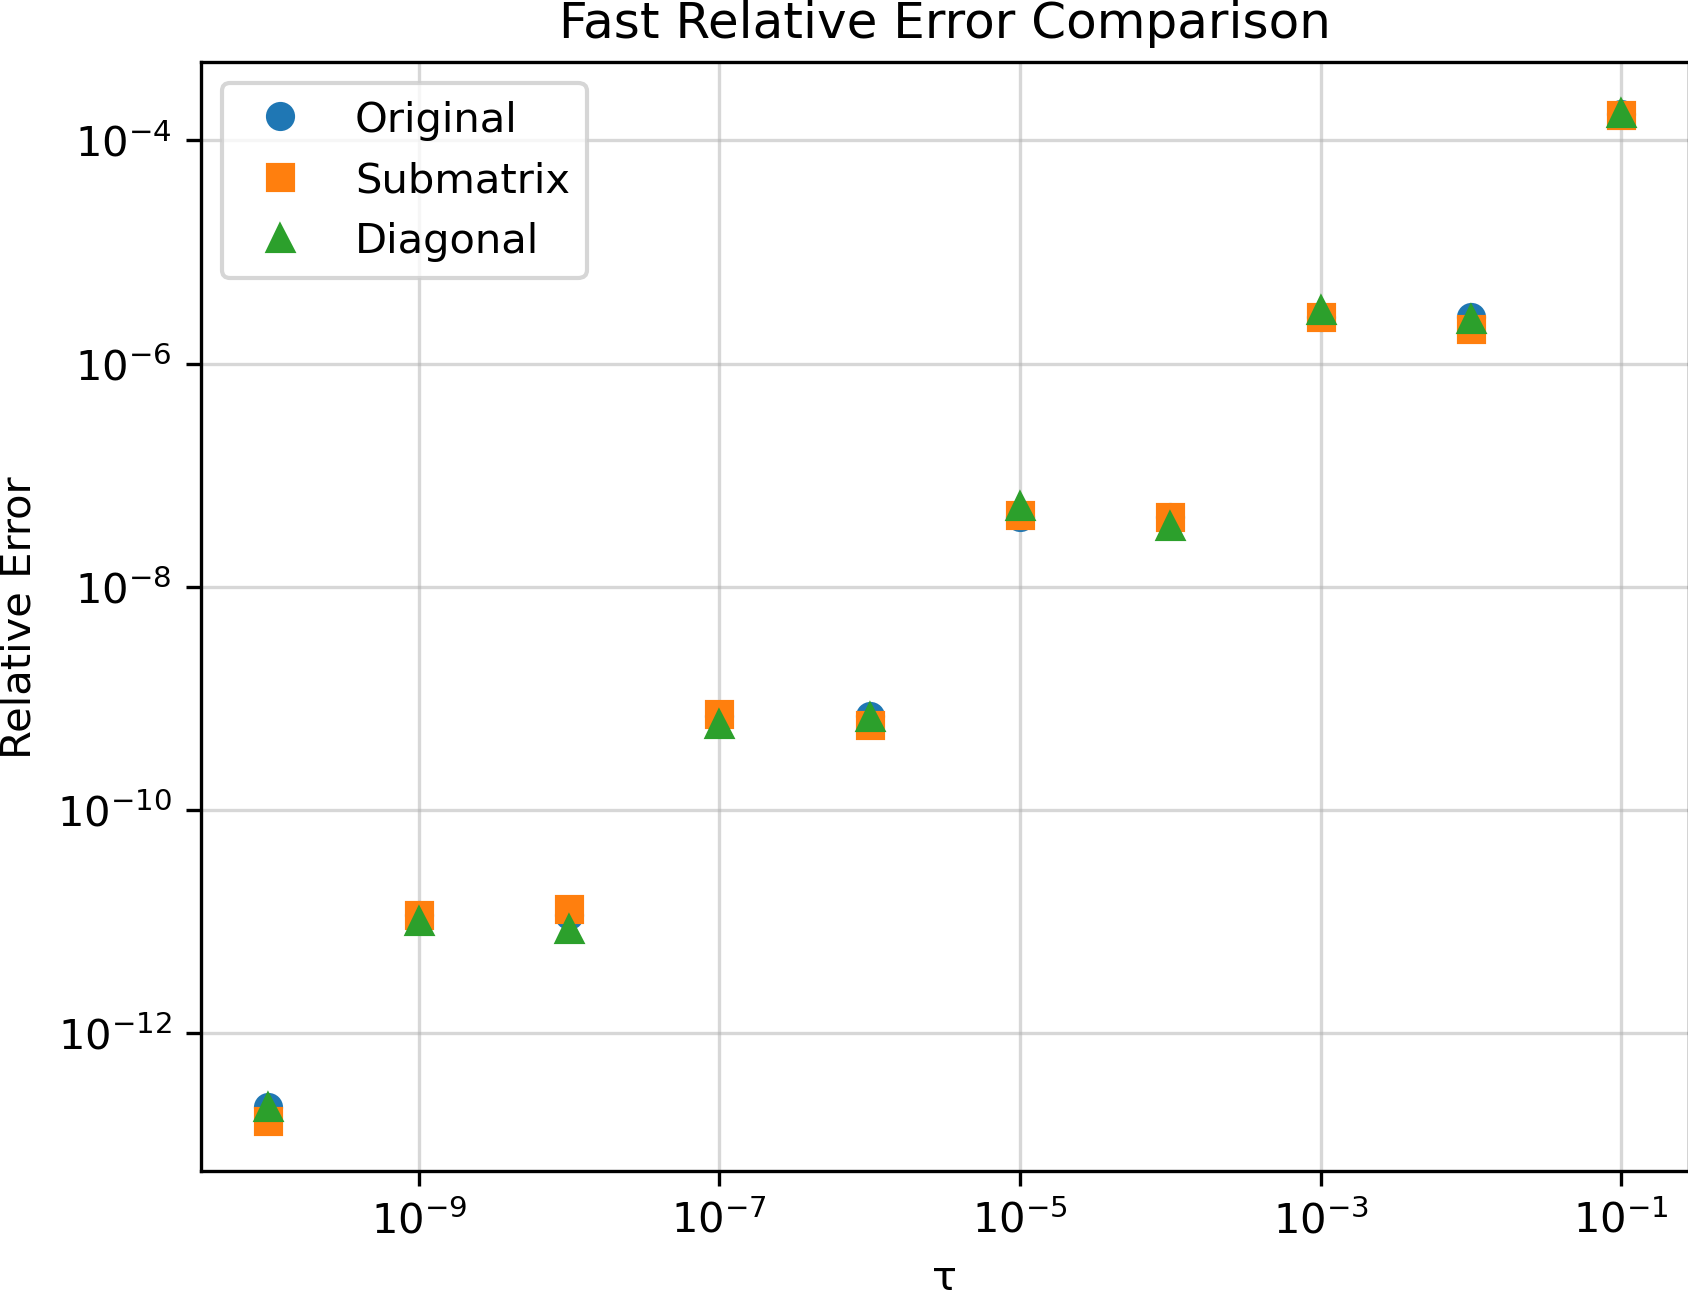
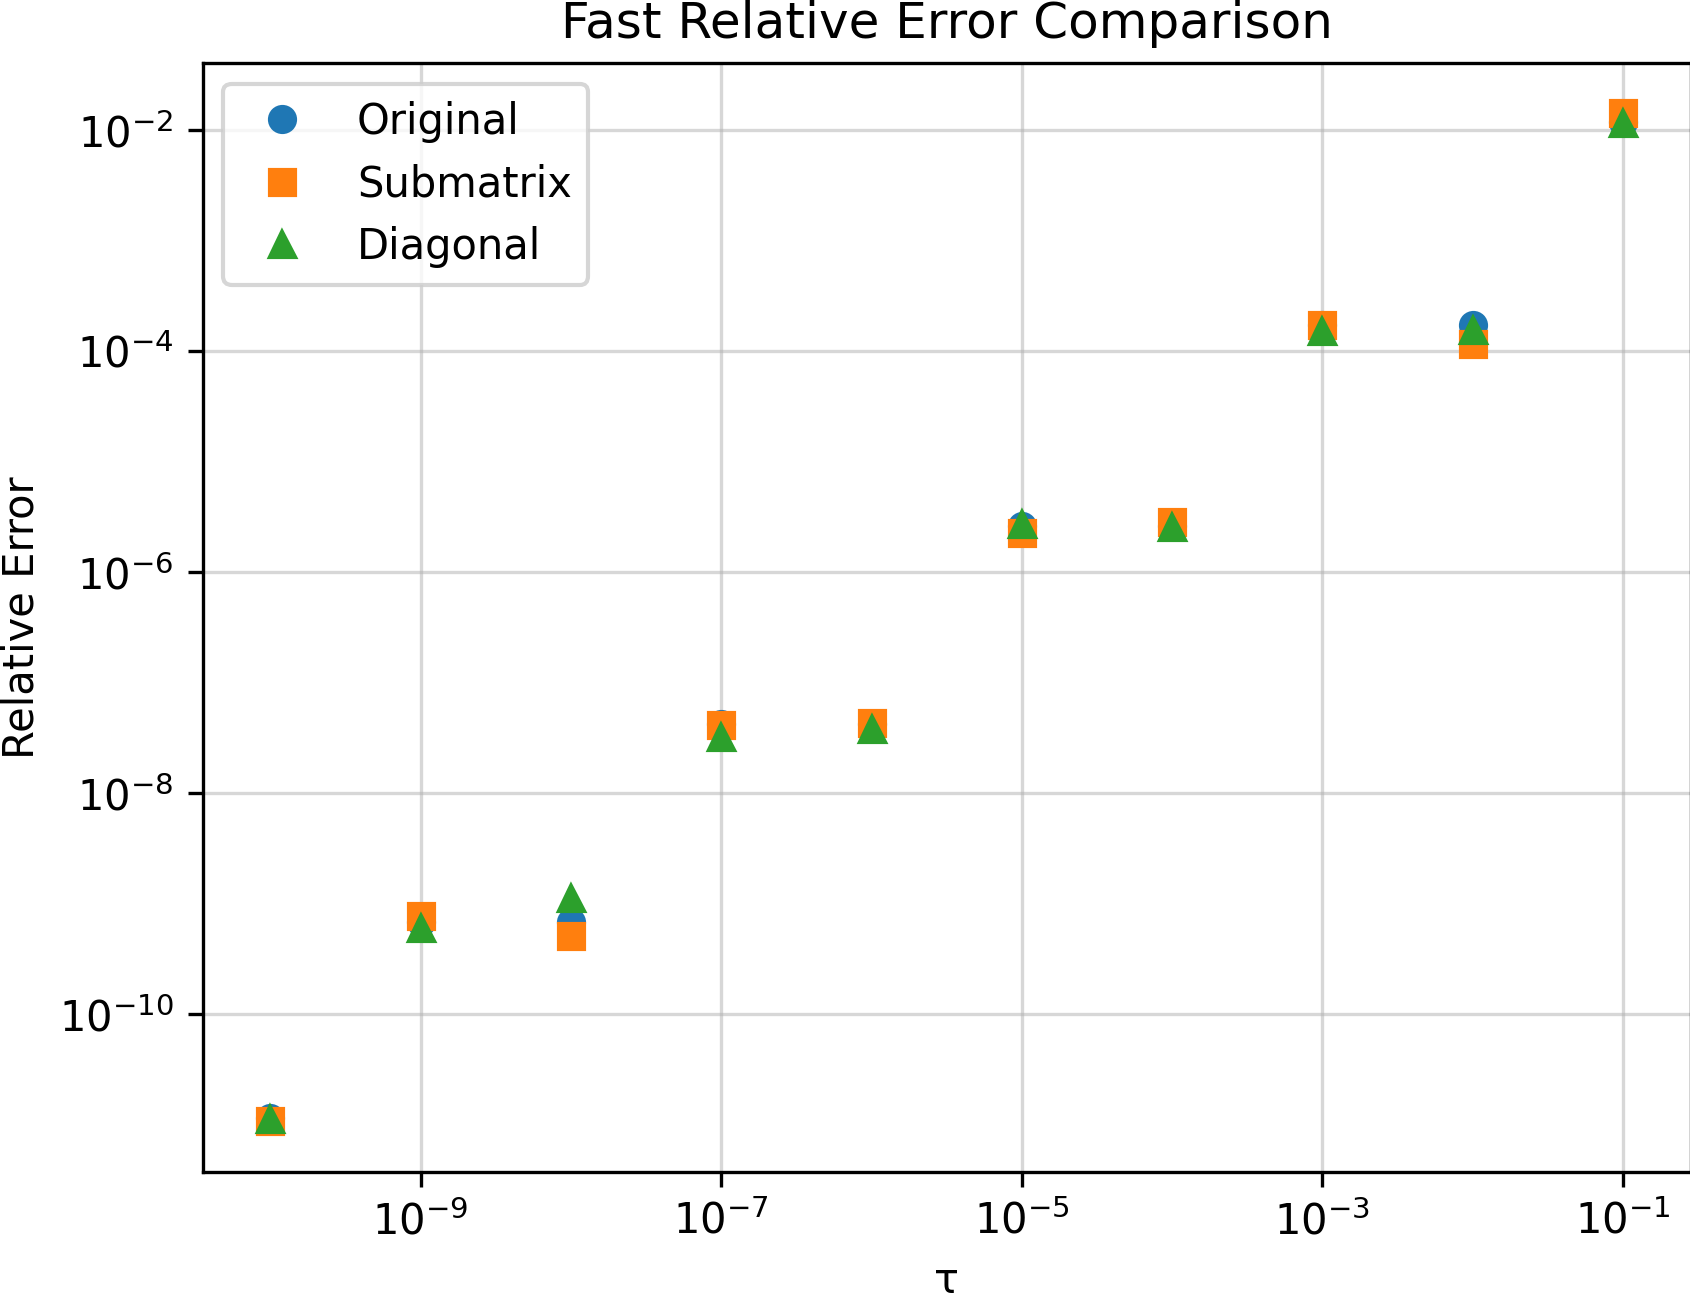
Added A plot. Changed theoretical error calc to 2 norm (not forbinious). Time calc is for error calc and not LR approx. calc. Changed the time calc in section f.

diff --git a/part2/part2.py b/part2/part2.py
@@ -50,17 +50,18 @@ def compute_SVD(A):
 
 def low_rank_approximation(A, tau):
     U, s, Vh = np.linalg.svd(A)
-    k = np.sum(s > tau)
+    k = np.sum(s > s[0]*tau)
     A_lr = U[:, :k] @ np.diag(s[:k]) @ Vh[:k, :]
     return A_lr, k, s
 
 
 def compute_error(A, A_lr):
-    return np.linalg.norm(A - A_lr) #/ np.linalg.norm(A)
+    return np.linalg.norm(A - A_lr) / np.linalg.norm(A)
 
 
 def theoretical_error(s_values, rank):
-    return np.sqrt(np.sum(s_values[rank:]**2))
+    #return np.sqrt(np.sum(s_values[rank+1:]**2))
+    return s_values[rank]/s_values[0]
 
 
 def error_estimation_submatrix(A: np.ndarray, U: np.ndarray, V: np.ndarray,
@@ -136,7 +137,7 @@ def fast_relative_error_estimation():
     def low_rank_approx(A: np.ndarray, tau: float) -> Tuple[np.ndarray, np.ndarray]:
         """Compute low-rank approximation using SVD."""
         U, s, Vh = np.linalg.svd(A)
-        rank = np.sum(s >= tau)
+        rank = np.sum(s >= s[0]*tau)
         return U[:, :rank], (s[:rank, None] * Vh[:rank, :])
     # Parameters
     W = 128  # W = 128λ
@@ -155,16 +156,20 @@ def fast_relative_error_estimation():
 
     for tau in tau_values:
         # Exact computation
-        start_time = time()
         U, V = low_rank_approx(A, tau)
         A_approx = U @ V
+        # Measuring error calc. time:
+        start_time = time()
         exact_error = np.linalg.norm(A - A_approx) / np.linalg.norm(A)
         exact_time = time() - start_time
         results_exact.append((exact_error, U.shape[1], exact_time))
 
         # Estimation methods
-        eps_sub, n_sub, time_sub = error_estimation_submatrix(A, U, V)
-        eps_diag, n_diag, time_diag = error_estimation_diagonal(A, U, V)
+        eps_sub, n_sub, _ = error_estimation_submatrix(A, U, V)
+        eps_diag, n_diag, _ = error_estimation_diagonal(A, U, V)
+
+        time_sub = np.mean(timeit.repeat(lambda: error_estimation_submatrix(A, U, V), repeat=100, number=1))
+        time_diag = np.mean(timeit.repeat(lambda: error_estimation_diagonal(A, U, V), repeat=100, number=1))
 
         results_submatrix.append((eps_sub, n_sub, time_sub))
         results_diagonal.append((eps_diag, n_diag, time_diag))
@@ -180,7 +185,7 @@ if __name__ == '__main__':
     D = W
     N = int(W/delta)
 
-    section = 'f'
+    section = 'e'
 
     if section == 'e':
         # Construct matrix A
@@ -197,12 +202,35 @@ if __name__ == '__main__':
         for tau in tau_values:
             A_lr, rank, s_values = low_rank_approximation(A, tau)
 
-            calc_time = np.mean(timeit.repeat(lambda: low_rank_approximation(A, tau), repeat=15, number=1))
+            calc_time = np.mean(timeit.repeat(lambda: compute_error(A, A_lr), repeat=100, number=1))
             ranks.append(rank)
             errors.append(compute_error(A, A_lr))
             theoretical_errors.append(theoretical_error(s_values, rank))
             times.append(calc_time)
             info(f'LR tau={tau} approximation has been calculated')
+
+        plt.imshow(np.abs(A))
+        x_ticks = np.arange(0, len(A) + 1, 100)[1:] - 1
+        y_ticks = np.arange(0, len(A) + 1, 100)[1:] - 1
+        #plt.grid()
+        plt.xticks(x_ticks, labels=x_ticks + 1)
+        plt.yticks(y_ticks, labels=y_ticks + 1)
+        plt.colorbar()
+        plt.title('Absolute Values of Matrix A')
+        plt.xlabel('Transmitter Index')
+        plt.ylabel('Receiver Index')
+        plt.savefig(r'ex1_a_constructA.png', dpi=300, bbox_inches='tight', pad_inches=0)
+        plt.show()
+
+        U, s, Vh = np.linalg.svd(A)
+        plt.semilogy(np.arange(len(s)), s, 'o')
+        plt.xlabel('Transmitter Index')
+        plt.ylabel('Singular Values')
+        plt.title('Singular Values of A')
+        plt.grid(True, which="both", ls="-", alpha=0.5)
+        plt.savefig('s_vals.png', dpi=300, bbox_inches='tight', pad_inches=0)
+        plt.show()
+        plt.close()
 
         plt.semilogx(tau_values, ranks, 'o')
         plt.xlabel('τ')
@@ -214,7 +242,7 @@ if __name__ == '__main__':
         plt.close()
 
         plt.loglog(tau_values, errors, 'o', label='Error')
-        plt.loglog(tau_values, theoretical_errors, 'o', label='Theoretical error')
+        plt.loglog(tau_values, theoretical_errors, 'x', label='Theoretical error')
         plt.xlabel('τ')
         plt.ylabel('Relative Error (2-norm)')
         plt.title('Relative Error of LR Approximation')
@@ -227,16 +255,18 @@ if __name__ == '__main__':
         plt.semilogx(tau_values, times, 'o')
         plt.xlabel('τ')
         plt.ylabel('Computation Time (s)')
-        plt.title('Computation Time for LR Approximation')
+        plt.title('Computation Time for Relative Error Calc.')
         plt.grid(True, which="both", ls="-", alpha=0.5)
-        plt.savefig('lr_approx_complexity.png', dpi=300, bbox_inches='tight', pad_inches=0)
+        plt.savefig('err_complexity.png', dpi=300, bbox_inches='tight', pad_inches=0)
         plt.show()
         plt.close()
 
         print(f"τ values: {tau_values}")
         print(f"Ranks: {ranks}")
         print(f"Errors: {errors}")
+        print(f"Theoretical Errors: {theoretical_errors}")
         print(f"Times: {times}")
+        print(f"First singular values: {s[:10]}")
 
     if section == 'f':
         # Run analysis and plot results
@@ -297,3 +327,7 @@ if __name__ == '__main__':
         plt.grid(True, which="both", ls="-", alpha=0.5)
         plt.savefig('part2_f_complexity.png', dpi=300, bbox_inches='tight', pad_inches=0)
         plt.show()
+
+        print(f"Times times_exact: {times_exact}")
+        print(f"Times times_sub: {times_sub}")
+        print(f"Times times_diag: {times_diag}")
